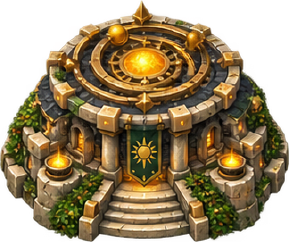
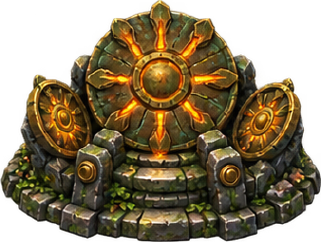
Repaint Sun as a bronze sun disc
Fourth dual redone under the name rule. A thick convex disc of patinated bronze tilted back in
a squat stone cradle, its relief channels glowing amber from within, matching smaller discs
flanking it on a terraced plinth. Anchors 46.8-51.9%, every tier wider than tall at 1.16-1.40,
cut in one pass.

The old Sun was not wrong so much as generic. Once the roster became an engine, a volcano, a
rift, a clay pit, a dinosaur, a golem, a crystal ring and a plaza, it was the last plain
fantasy building standing on the board.

Its replacement had to dodge two towers rather than one: Rainbow and Pure are both already a
ring with light in it. So the brief made this solid METAL instead of crystal, ONE big object
instead of a ring of small ones, and steady heat instead of a pale arc -- and the Rainbow
sheet went into the prompt labelled "this asset must NOT look like it", the same trick Clay
used against Flesh Golem. That is now the standard way to separate two towers that would
otherwise converge.

The gold trap held the way it always has to: aged bronze over most of the disc, dark slate in
the cradle, ivy on the terraces, gold only as a thin edge on the relief and the glow in the
channels. No flame anywhere, which is what keeps it apart from Fire.

diff --git a/godottowerdefense/docs/tower-art-prompt.md b/godottowerdefense/docs/tower-art-prompt.md
@@ -12,7 +12,7 @@ shared fortress language, and every fusion now takes its shape from ITS OWN NAME
 
 EVERY tower in the game is painted: a `--fill-board` run reports `art*` on all fifteen rows.
 Painted under the NEW name rule: Dinosaur, Steam, Lava, Rainbow, Infernal, Flesh Golem, Pure,
-Clay. Still on the OLD fusion recipe and queued to be redone as their own names: Sun, Well,
+Clay, Sun. Still on the OLD fusion recipe and queued to be redone as their own names: Well,
 Roots.
 
 The pipeline around it is in [CLAUDE.md](../../CLAUDE.md) ("Painted tower set"); this file is
@@ -326,6 +326,26 @@ deliberate departure from the source map, marked in `game.gd` and counted in CLA
 the other three; the recipe, the stats and the ability are untouched. Worth remembering the
 next time a ported name and a good silhouette disagree: the names are three strings, and the
 art is a tower the player looks at for a whole run.
+
+### What Sun measured, repainted as an object
+
+Anchors 46.8 / 51.9 / 51.2 / 51.0 / 50.1%, every tier wider than tall at 1.16-1.40, cut in
+one pass. A thick convex disc of patinated bronze tilted back in a squat stone cradle, its
+relief channels glowing amber from within, flanked by matching smaller discs on a terraced
+plinth.
+
+The old Sun was not wrong so much as GENERIC: after the roster turned into an engine, a
+volcano, a rift, a clay pit, a dinosaur, a golem, a crystal ring and a plaza, it was the last
+plain fantasy building left. Its replacement had to dodge two towers rather than one, since
+Rainbow and Pure are both already "a ring with light in it", so the brief made it SOLID METAL
+instead of crystal, ONE big object instead of a ring of small ones, and steady heat instead
+of a pale arc. Attaching the Rainbow sheet with "this asset must NOT look like it" is the
+same trick Clay used against Flesh Golem, and it is now the standard way to separate two
+towers that would otherwise converge.
+
+The gold trap held the way it always has to: aged bronze over most of the disc, dark slate in
+the cradle, ivy on the terraces, and gold only as a thin edge on the relief plus the glow in
+the cut channels. And no flame anywhere, which is what keeps it apart from Fire.
 
 ### A cutter bug this sheet found
 
